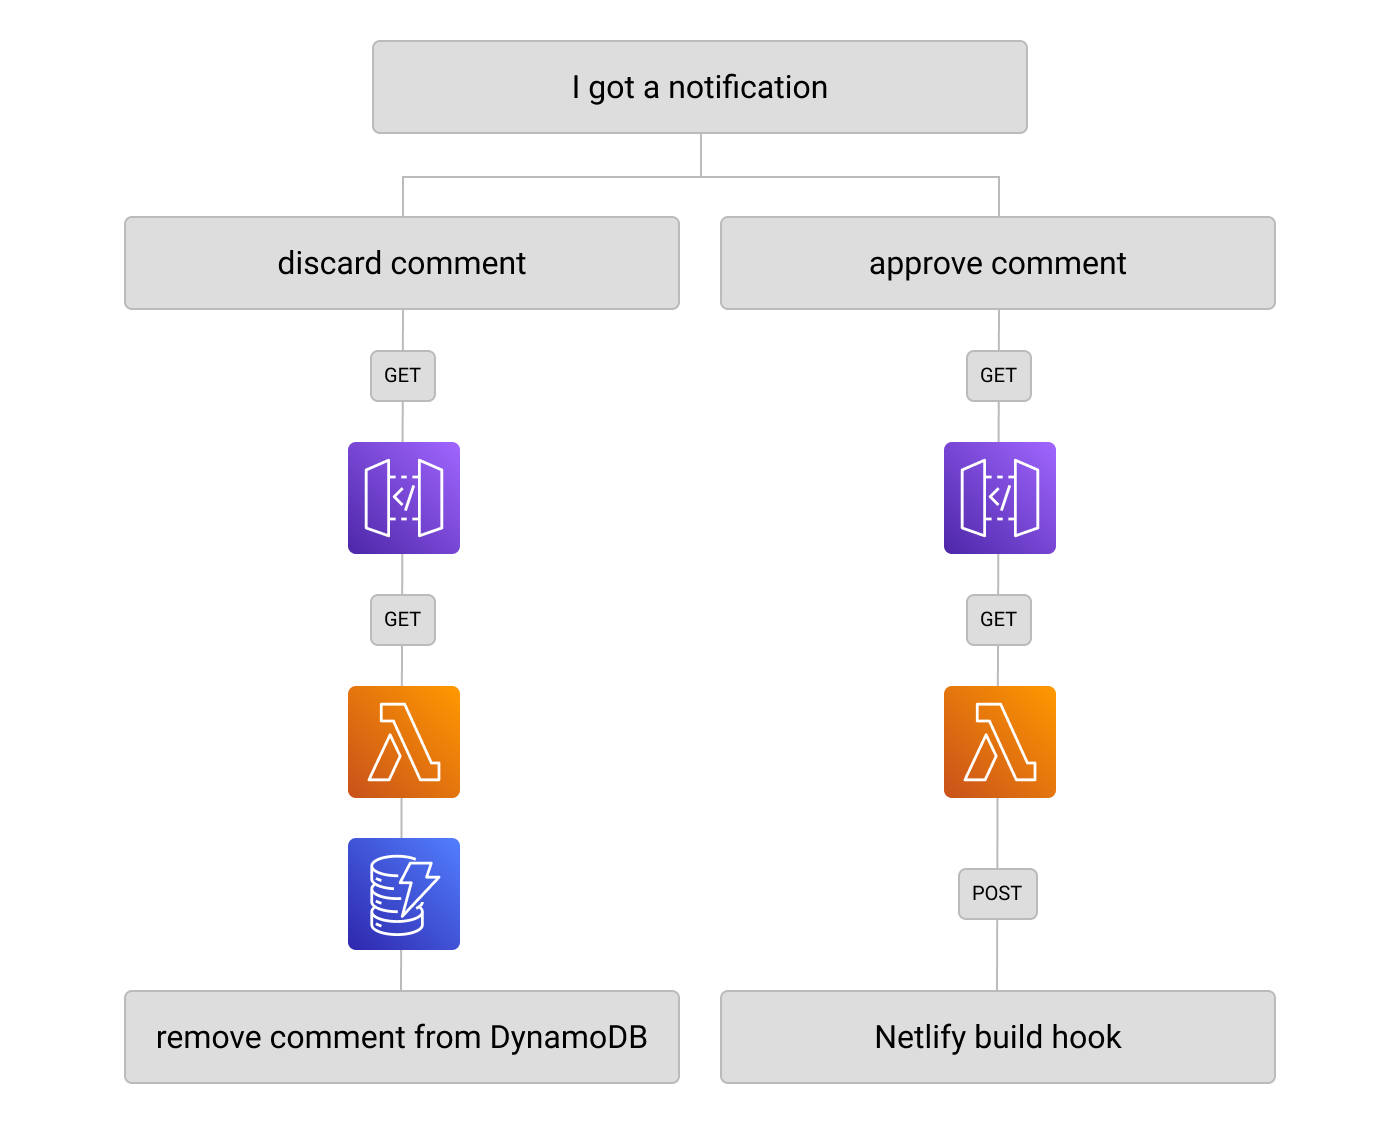
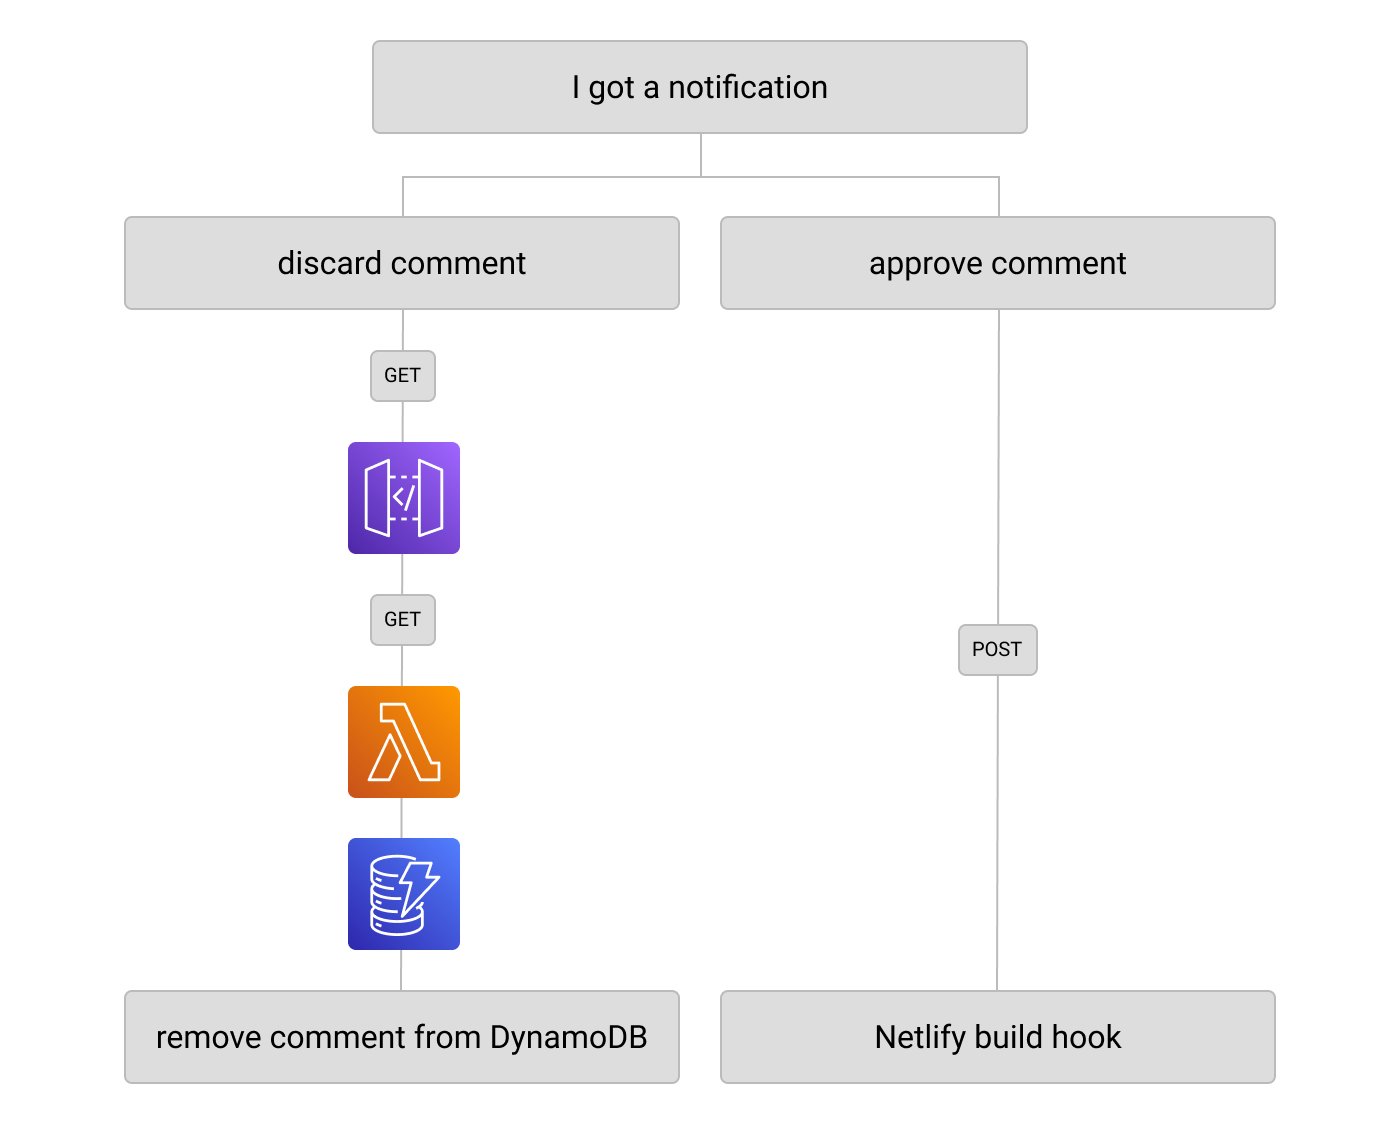
Last check

Changed region(s): [[0.6757, 0.5294, 0.7679, 0.7162], [0.6757, 0.3114, 0.7679, 0.4982], [0.6757, 0.7473, 0.7679, 0.8407]]

diff --git a/content/posts/2021-02-22-bye-bye-disqus-i-built-my-commenting-system-using-aws-serverless-stack-and-netlify-build-hooks.md b/content/posts/2021-02-22-bye-bye-disqus-i-built-my-commenting-system-using-aws-serverless-stack-and-netlify-build-hooks.md
@@ -1,6 +1,6 @@
 ---
 title: "Bye-bye, Disqus! I built my commenting system using AWS serverless stack and Netlify build hooks!"
-summary: ""
+summary: "I have been using Disqus on this website since its inception. It worked, and it didn’t cost me a single penny, but it cost me, and most importantly, my visitors compromised privacy. I started looking into alternatives, and surprisingly there is not a lot of things worth recommending. Yes, you guessed it — I built my own one."
 photo: "2021-02-22.jpg"
 ---
 
@@ -18,13 +18,13 @@ I don’t want to show you ads, I don’t care about your location, and I don’
 
 Disqus makes exactly 76 HTTP requests on load, and 11 of these resources are third-party trackers. It loads almost 2MB of data! To top it off, you have to wait around 10 seconds on average speed connection to get it all to display a commenting system with no comments whatsoever! Zero! Null! Nada!
 
-For comparison, my website is ready after 300ms under the same network conditions using my current solution. The full functionality requires to download only 1kb of JavaScript. It is worth to mention that this data is coming from an article that contains over hundred comments. The Lighthouse score isn’t that bad neither.
+For comparison, my website is ready after 300ms under the same network conditions using my current solution. The full functionality requires to download only 1kb of JavaScript. It is worth to mention that this data is coming from an article that contains over a hundred comments. The Lighthouse score isn’t that bad neither.
 
 ![Lighthouse score of my individual page with more than 100 comments](/photos/2021-02-22-1.png)
 
 ## Freedom
 
-Because I built it, I can do whatever the heck I want with it. I have a full control over the functionality and the visual aspect of it. I can even do shit like this!
+Because I built it, I can do whatever the heck I want with it. I have full control over the functionality and the visual aspect of it. I can even do shit like this!
 
 ![A funny snippet of code](/photos/2021-02-22-2.jpg)
 
@@ -38,6 +38,10 @@ There are a few HTML lines on the front end, around 100 lines of custom-written 
 
 ![My custom commenting system built with AWS - diagram](/photos/2021-02-22-5.png)
 
+Pro tip! You can send a `POST` request on link click by adding a [`ping` attribute](https://developer.mozilla.org/en-US/docs/Web/HTML/Element/a#attr-ping) to it. I learned that from [Sven, who tweeted about it](https://twitter.com/svenluijten/status/1363245229533507585) a few days ago. Excellent, isn’t it?
+
+> A space-separated list of URLs. When the link is followed, the browser will send POST requests with the body PING to the URLs. Typically for tracking.
+
 ## Feedback please
 
-I'm planning to open-source it and provide a detailed tutorial on how you can implement a commenting system like this on your own website. Before I am going to do so, I want this thing to be properly tested. I highly encourage you to try it out and live me comment below. As always, I am open to your feedback. For now, stay curious, build cool things and share with others 👋
+I'm planning to open-source it and provide a detailed tutorial on how you can implement a commenting system like this on your own website. Before I am going to do so, I want this thing to be properly tested. I highly encourage you to try it out and leave me a comment below. As always, I am open to your feedback. For now, stay curious, build cool things and share with others 👋
